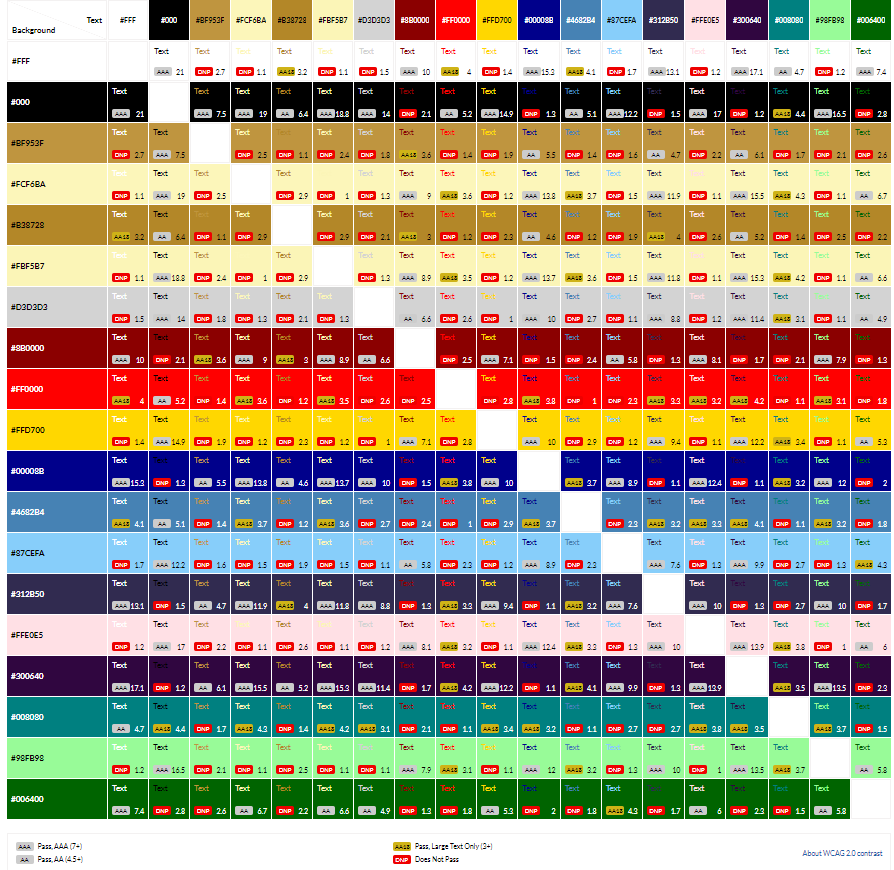
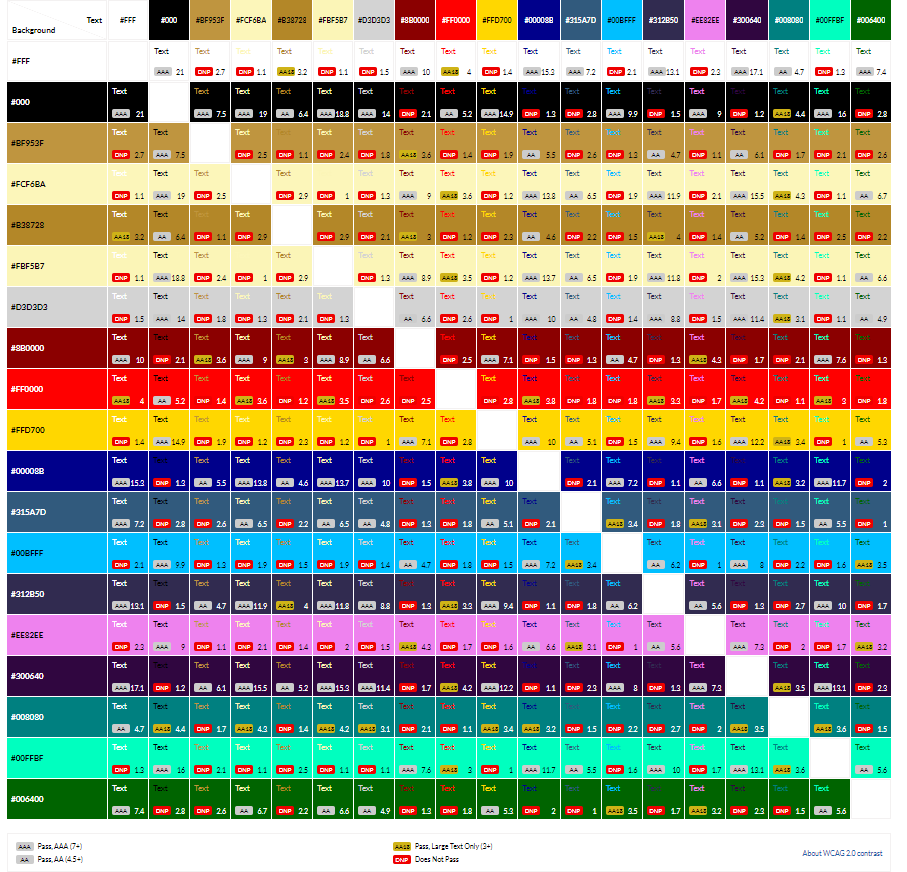
change blue background for result modal

diff --git a/assets/js/script.js b/assets/js/script.js
@@ -512,7 +512,7 @@ document.addEventListener("DOMContentLoaded", function () {
         removeActiveTheme();
         target.classList.add("active-theme");
         document.body.style.backgroundColor = "#87CEFA";
-        resultSurroundRef.style.backgroundColor = "#4682B4";
+        resultSurroundRef.style.backgroundColor = "#315A7D";
         for (let i = 0; i < mainWindowRef.length; i++) {
             mainWindowRef[i].style.backgroundColor = "#00008B";
         }

diff --git a/README.md b/README.md
@@ -141,7 +141,7 @@ Since this for this project, wireframes are not required and were used only to s
 ### **Color Scheme:**
 When deciding the app's color scheme, I first began with the classic green table then worked outwards from there. I wanted the app to feel regal like a casino while keeping my contrast scores as high as possible for accessibility purposes.
  
-I have created the below color grid using [https://contrast-grid.eightshapes.com](https://contrast-grid.eightshapes.com/?version=1.1.0&background-colors=&foreground-colors=FFF%0D%0A000%0D%0ABF953F%0D%0AFCF6BA%0D%0AB38728%0D%0AFBF5B7%0D%0AD3D3D3%0D%0A8B0000%0D%0AFF0000%0D%0AFFD700%0D%0A00008B%0D%0A4682B4%0D%0A00BFFF%0D%0A312B50%0D%0AEE82EE%0D%0A300640%0D%0A008080%0D%0A00FFBF%0D%0A006400%0D%0A&es-color-form__tile-size=compact&es-color-form__show-contrast=aaa&es-color-form__show-contrast=aa&es-color-form__show-contrast=aa18&es-color-form__show-contrast=dnp)
+I have created the below color grid using [https://contrast-grid.eightshapes.com](https://contrast-grid.eightshapes.com/?version=1.1.0&background-colors=&foreground-colors=FFF%0D%0A000%0D%0ABF953F%0D%0AFCF6BA%0D%0AB38728%0D%0AFBF5B7%0D%0AD3D3D3%0D%0A8B0000%0D%0AFF0000%0D%0AFFD700%0D%0A00008B%0D%0A315A7D%0D%0A00BFFF%0D%0A312B50%0D%0AEE82EE%0D%0A300640%0D%0A008080%0D%0A00FFBF%0D%0A006400%0D%0A%0D%0A&es-color-form__tile-size=compact&es-color-form__show-contrast=aaa&es-color-form__show-contrast=aa&es-color-form__show-contrast=aa18&es-color-form__show-contrast=dnp)
 
 ![Color Contrast Grid](docs/screenshots/color-grid.png)
 
